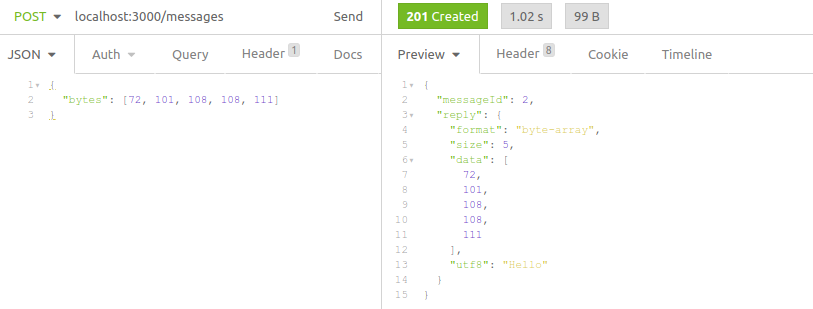
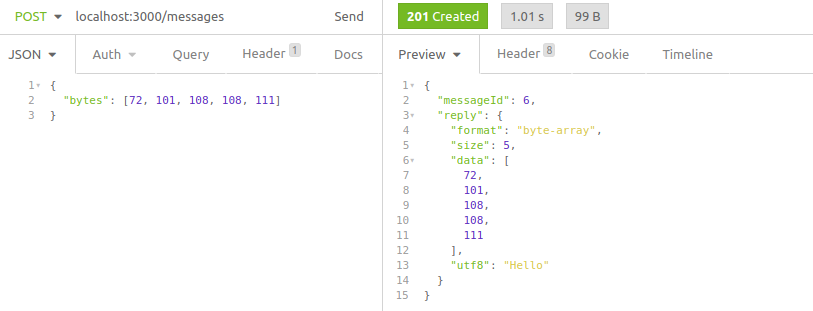
Update readme

diff --git a/README.md b/README.md
@@ -139,7 +139,7 @@ Send any data:
 Send binary data (uint8 array):
 <p>
   <br>
-  <img src="./docs/send-bytes.png">
+  <img src="./docs/send-bytes-2.png">
 </p>
 
 ## Clients
